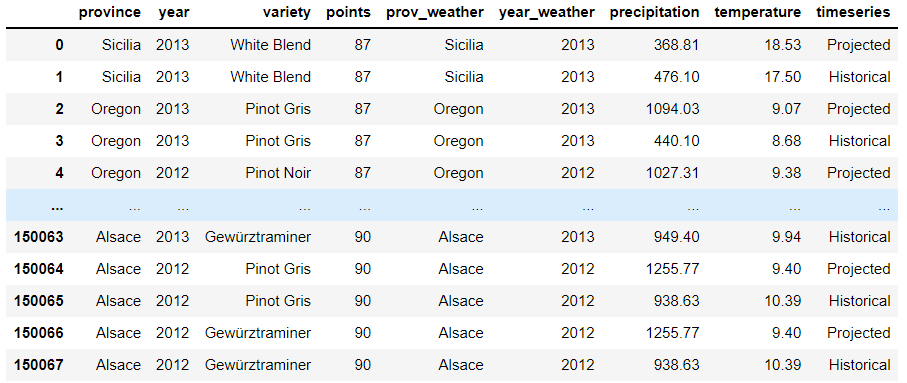
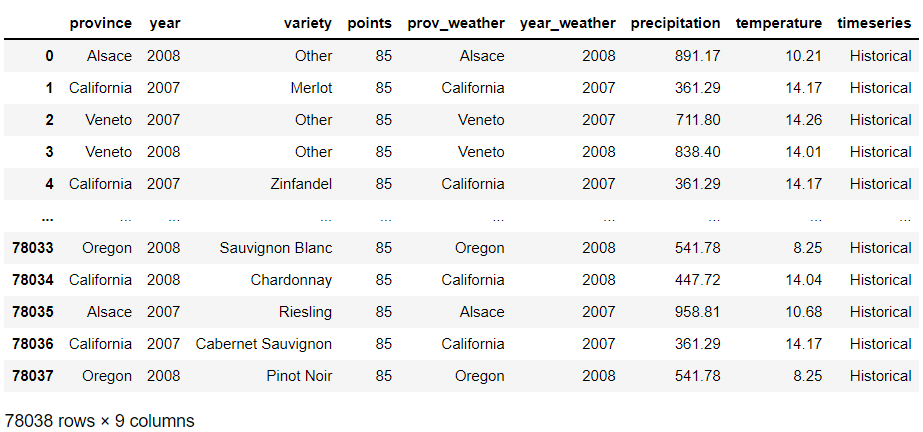
Updated README.md with new SQL join and SQLAlchemy code

diff --git a/Deliverable 2/README.md b/Deliverable 2/README.md
@@ -229,7 +229,8 @@ After using Google Colaboratory to write the weather and wine data to an Amazon 
 ```
 CREATE TABLE wine_weather_table
 AS (SELECT * FROM wine_data 
-	LEFT JOIN weather_data ON wine_data.province=weather_data.Prov_Weather AND wine_data.year=weather_data.Year_Weather);
+	LEFT JOIN weather_data ON wine_data.province=weather_data.Prov_Weather AND wine_data.year=weather_data.Year_Weather
+	WHERE weather_data.Timeseries = 'Historical');
 ```
 
 Then, using SQLAlchemy and Pandas, we read wine_weather_table from SQL into a DataFrame in Pandas.
@@ -248,7 +249,7 @@ alchemyEngine = create_engine('postgresql+psycopg2://root:Group2Wineos@grp2rdsin
 # Connect to PostgreSQL server
 dbConnection = alchemyEngine.connect();
 
-df = pd.read_sql_table('wine_weather_table', dbConnection)
+df = pd.read_sql_table('wine_and_weather_table', dbConnection)
 ```
 
 Here is the resulting output we'll use for our machine learning model:
